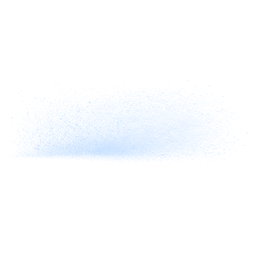
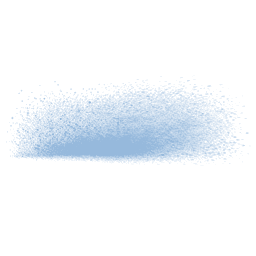
Enhance wet tire spray visuals

Changed region(s): [[0.0625, 0.3438, 0.9375, 0.625], [0.8438, 0.4062, 0.875, 0.4375]]

diff --git a/engine/code/cgame/cg_players.c b/engine/code/cgame/cg_players.c
@@ -2981,6 +2981,7 @@ tail from normal rolling tires, while skidding only makes the spray heavier.
 static void CG_AddWetTireSpray( centity_t *cent, vec3_t origin, vec3_t up, int tireNum, qboolean skidding ) {
 	vec3_t		flatVelocity;
 	vec3_t		sprayDir;
+	vec3_t		sprayOrigin;
 	float		speed;
 	float		normalSpeed;
 	int			interval;
@@ -2997,22 +2998,23 @@ static void CG_AddWetTireSpray( centity_t *cent, vec3_t origin, vec3_t up, int t
 		return;
 	}
 
-	interval = skidding ? 55 : 80;
+	interval = skidding ? 45 : 60;
 	if ( cent->wetSprayTime[tireNum] > cg.time ) {
 		return;
 	}
 
 	normalSpeed = Com_Clamp( 0.0f, 1.0f, ( speed - 80.0f ) / 520.0f );
-	radius = 3 + (int)( normalSpeed * 5.0f ) + ( skidding ? 3 : 0 );
-	duration = 220 + (int)( normalSpeed * 140.0f ) + ( skidding ? 100 : 0 );
-	particleSpeed = 18.0f + normalSpeed * 28.0f + ( skidding ? 12.0f : 0.0f );
-	alpha = 0.18f + normalSpeed * 0.18f + ( skidding ? 0.14f : 0.0f );
+	radius = 8 + (int)( normalSpeed * 8.0f ) + ( skidding ? 5 : 0 );
+	duration = 280 + (int)( normalSpeed * 160.0f ) + ( skidding ? 120 : 0 );
+	particleSpeed = 24.0f + normalSpeed * 34.0f + ( skidding ? 14.0f : 0.0f );
+	alpha = 0.42f + normalSpeed * 0.20f + ( skidding ? 0.16f : 0.0f );
 
 	VectorScale( flatVelocity, -0.55f, sprayDir );
-	VectorMA( sprayDir, 38.0f, up, sprayDir );
+	VectorMA( sprayDir, 30.0f, up, sprayDir );
 	VectorNormalize( sprayDir );
 
-	CG_AddWaterSprayParticle( origin, sprayDir, particleSpeed, radius, duration, 0.72f, 0.84f, 0.96f, alpha, cgs.media.waterSprayFanShader );
+	VectorMA( origin, 6.0f + normalSpeed * 4.0f, up, sprayOrigin );
+	CG_AddWaterSprayParticle( sprayOrigin, sprayDir, particleSpeed, radius, duration, 0.88f, 0.94f, 1.0f, alpha, cgs.media.waterSprayFanShader );
 	cent->wetSprayTime[tireNum] = cg.time + interval - (int)( normalSpeed * 25.0f );
 }
 
@@ -3192,7 +3194,8 @@ static void CG_SurfaceEffects( centity_t *cent, vec3_t curOrigin, vec3_t up, int
 			if ( cent->smokeTime[tireNum] < cg.time ) {
 				if ( wetSurface ) {
 					// wet surface: spray instead of smoke — fast, small, bluish-white, short-lived
-					CG_AddWaterSprayParticle(tr.endpos, up, 22, 7, 320, 0.75f, 0.85f, 0.95f, 0.42f, cgs.media.waterSprayPuffShader);
+					VectorMA( tr.endpos, 7.0f, up, origin );
+					CG_AddWaterSprayParticle(origin, up, 28, 13, 380, 0.88f, 0.94f, 1.0f, 0.58f, cgs.media.waterSprayPuffShader);
 				} else if ( tr.surfaceFlags & SURF_DUST ) {
 					CreateSmokeCloudEntity(tr.endpos, up, 20, 48, 2000, surfaceColors[colorIndex][0], surfaceColors[colorIndex][1], surfaceColors[colorIndex][2], surfaceColors[colorIndex][3], cgs.media.smokePuffShader);
 				} else if ( tr.surfaceFlags & SURF_ICE ) {
